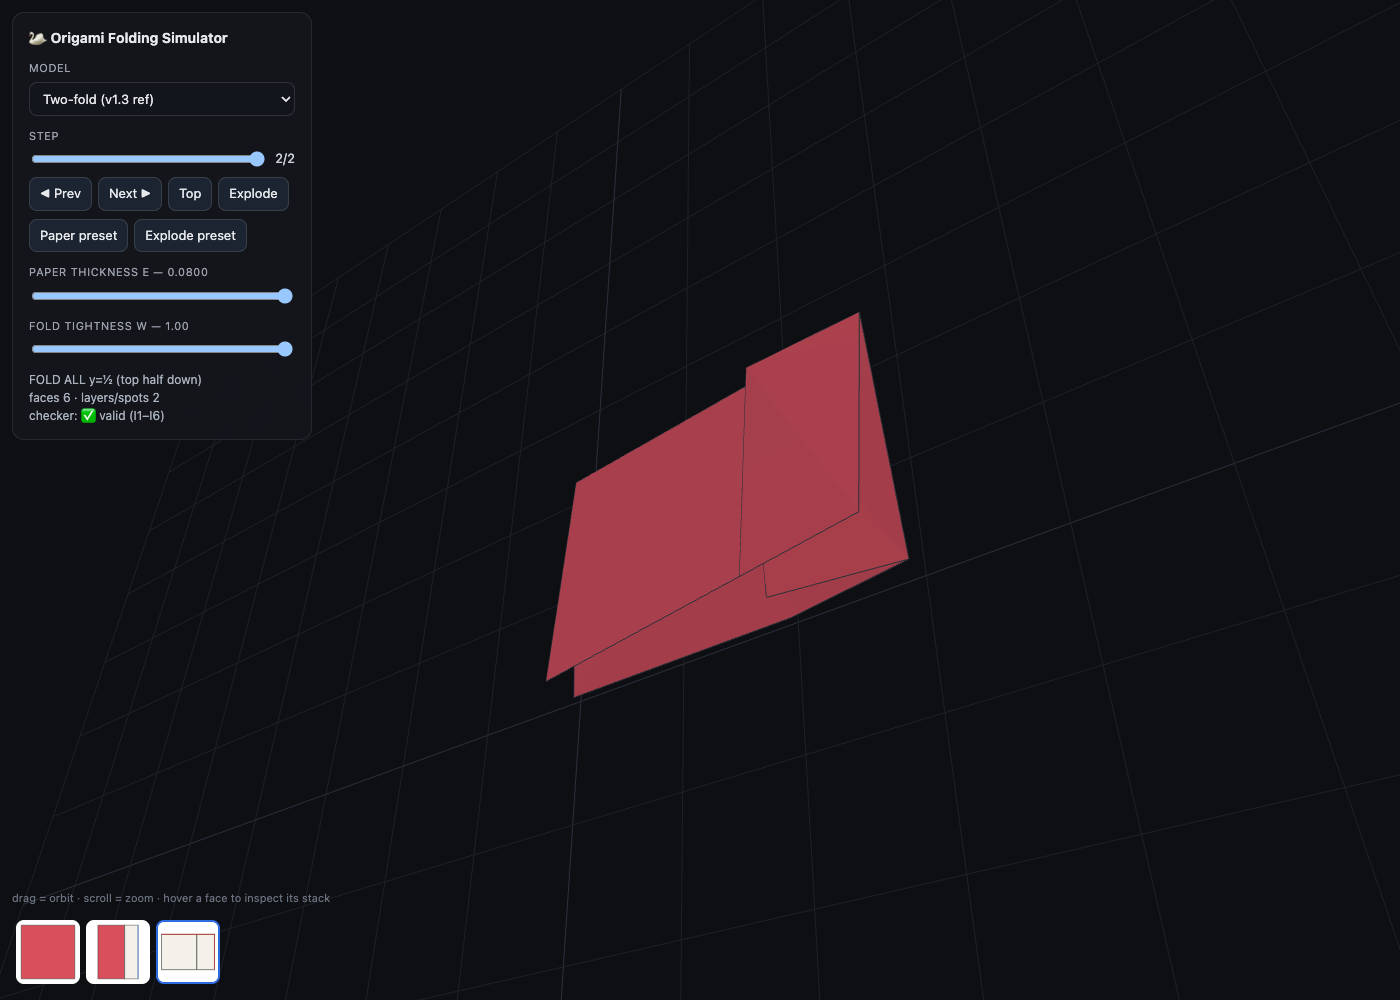
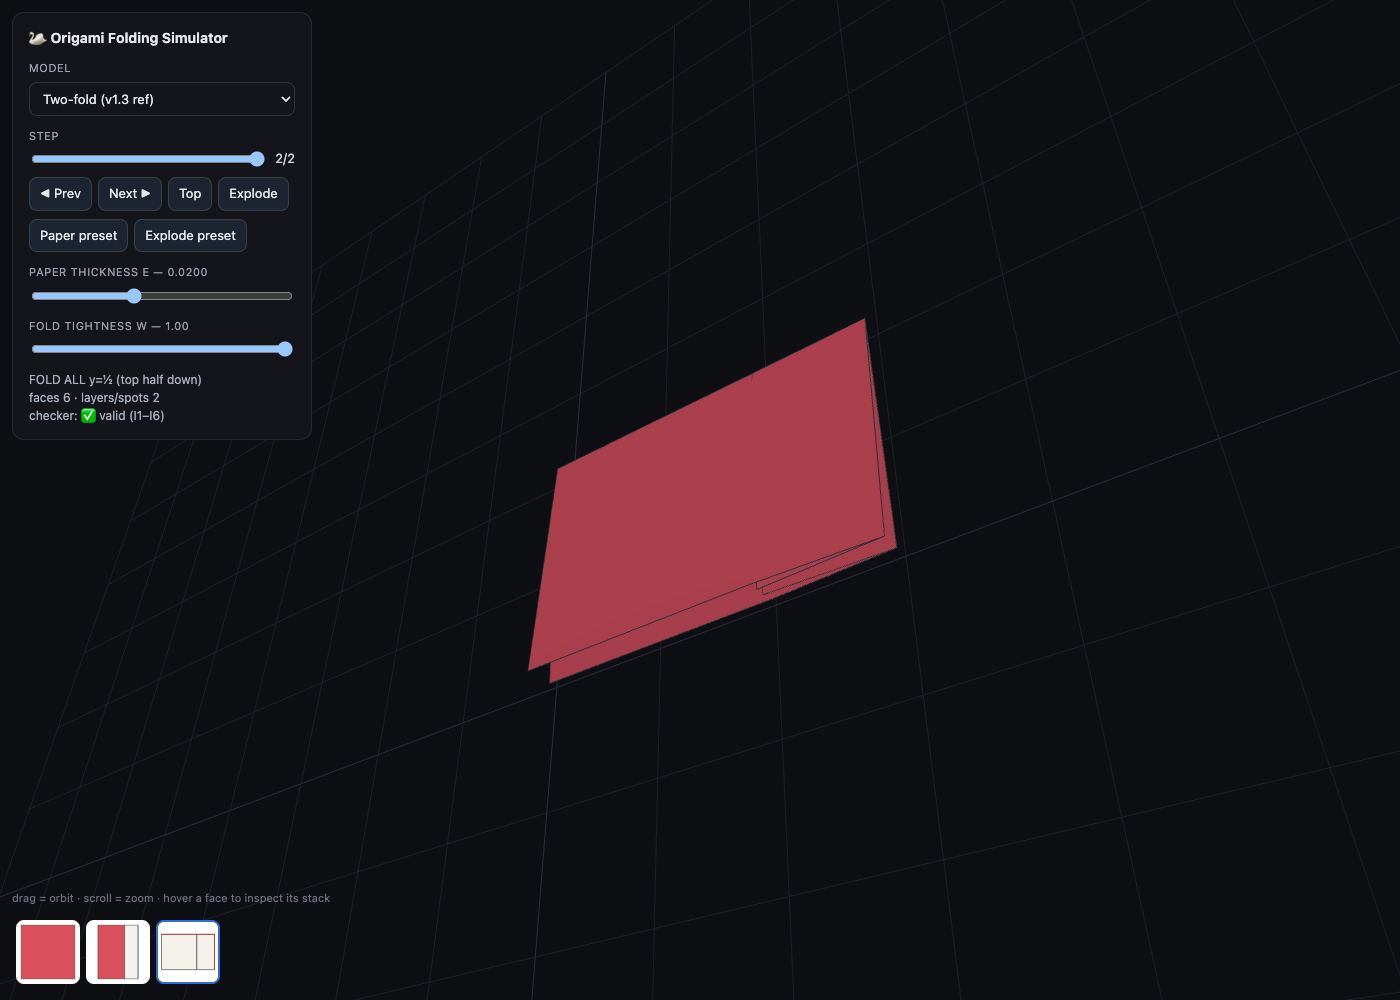
Flat-top layer heights: one physical sheet drawn flat at its top-most level
User feedback: with the per-spot ramp, a top sheet spanning regions with different layer
counts dipped, letting a small higher piece poke up ("the big paper should be on top, not
the little square"). Switch the base height to per SPLIT-connected component (physical
sheet) = its MAX stack index: each sheet is drawn flat at the highest level it reaches, so
the top sheet stays flat on top across regions; thinner regions leave an invisible gap
under it. CREASE welding by w unchanged. Also drop the isotonic order-repair (it patched
the per-spot ramp's inversions, unneeded now) and the unused BuildOptions.weld.

diff --git a/packages/viewer/src/build3d.ts b/packages/viewer/src/build3d.ts
@@ -17,7 +17,7 @@
  *   4. Edge lines: BOUNDARY + folded CREASE only. SPLIT edges are never drawn. No hinge walls.
  */
 import * as THREE from 'three';
-import type { FoldedState, Face, Vec2, FaceId, SpotId } from '@origami/core';
+import type { FoldedState, Face, Vec2, FaceId } from '@origami/core';
 import { foldedPoly, faceIsFront, applyIso } from '@origami/core';
 
 export const FRONT_COLOR = 0xd94f5c; // colored paper front
@@ -62,6 +62,7 @@ function makeUF(ids: Iterable<FaceId>) {
   };
   return {
     has: (x: FaceId) => parent.has(x),
+    find,
     union: (a: FaceId, b: FaceId) => { if (parent.has(a) && parent.has(b)) parent.set(find(a), find(b)); },
     groups: (): FaceId[][] => {
       const g = new Map<FaceId, FaceId[]>();
@@ -73,28 +74,27 @@ function makeUF(ids: Iterable<FaceId>) {
 
 interface FaceGeom { face: Face; verts: Vec2[]; z: number[] } // enriched folded polygon + per-vertex z
 
-/** Least-squares non-decreasing projection (pool adjacent violators). Minimal monotone fit. */
-function isotonic(vals: number[]): number[] {
-  const blocks: { sum: number; cnt: number; val: number }[] = [];
-  for (const v of vals) {
-    let b = { sum: v, cnt: 1, val: v };
-    while (blocks.length && blocks[blocks.length - 1]!.val > b.val) {
-      const p = blocks.pop()!;
-      b = { sum: p.sum + b.sum, cnt: p.cnt + b.cnt, val: (p.sum + b.sum) / (p.cnt + b.cnt) };
-    }
-    blocks.push(b);
-  }
-  const out: number[] = [];
-  for (const b of blocks) for (let i = 0; i < b.cnt; i++) out.push(b.val);
-  return out;
-}
-
 export function buildModel(state: FoldedState, opts: BuildOptions): Built {
   const eps = opts.epsilon, w = opts.weight;
 
-  // 1. stack index (within spot) per face — the base layer height
+  // 1. base height per face. A physical SHEET = a SPLIT-connected component of faces; it is
+  // drawn FLAT at one height = the TOP stack position it reaches anywhere. So a sheet that is
+  // topmost over a 4-layer region and continues over a 2-layer region stays flat on top over
+  // both (the big paper doesn't dip and let a small higher piece poke up); thin regions just
+  // leave an empty gap under that top sheet. (User-chosen "flat top"; the spec's per-spot
+  // ramp is the alternative.) CREASE welding (below) still joins the folds by w.
   const stackIdx = new Map<FaceId, number>();
   for (const spot of state.spots.values()) spot.stack.forEach((id, i) => stackIdx.set(id, i));
+  const sheet = makeUF([...state.faces.keys()]);
+  for (const e of state.edges.values()) {
+    if (e.kind === 'SPLIT' && e.faces[1] !== null) sheet.union(e.faces[0], e.faces[1]);
+  }
+  const sheetTop = new Map<FaceId, number>(); // component root → max stack index in it
+  for (const f of state.faces.values()) {
+    const r = sheet.find(f.id), lvl = stackIdx.get(f.id) ?? 0;
+    sheetTop.set(r, Math.max(sheetTop.get(r) ?? 0, lvl));
+  }
+  const levelOf = (id: FaceId): number => sheetTop.get(sheet.find(id)) ?? (stackIdx.get(id) ?? 0);
 
   // gather every folded vertex position (for conforming T-junction insertion)
   const folded = new Map<FaceId, readonly Vec2[]>();
@@ -123,7 +123,7 @@ export function buildModel(state: FoldedState, opts: BuildOptions): Built {
       mid.sort((p, q) => t(p) - t(q));
       out.push(...mid);
     }
-    const base = (stackIdx.get(f.id) ?? 0) * eps;
+    const base = levelOf(f.id) * eps;
     fg.set(f.id, { face: f, verts: out, z: out.map(() => base) });
   }
 
@@ -169,30 +169,6 @@ export function buildModel(state: FoldedState, opts: BuildOptions): Built {
     };
     weld(['SPLIT'], false);            // tier 1: unconditional
     weld(['SPLIT', 'CREASE'], true);   // tier 2: hinge clusters, w-blended
-  }
-
-  // 2b. Order repair (SPEC-GAP §8.1): the mean-weld can pull a facet's boundary height out
-  // of its spot's stacking order — a top facet draping toward a low far region dips below a
-  // non-draping layer beneath it ("top ends up in the middle and pokes through"). At each
-  // vertex, project each spot's faces (by stack index) onto the nearest NON-DECREASING
-  // sequence (isotonic / PAVA). Minimal: invisible at the Paper preset, and at large ε it
-  // ties the crossing layers instead of letting the top poke below. (Cup: 3 inversions → 0.)
-  const faceSpotId = new Map<FaceId, SpotId>();
-  for (const [sid, sp] of state.spots) for (const id of sp.stack) faceSpotId.set(id, sid);
-  for (const insts of instances.values()) {
-    if (insts.length < 2) continue;
-    const bySpot = new Map<SpotId, { id: FaceId; vi: number }[]>();
-    for (const i of insts) {
-      const sid = faceSpotId.get(i.id); if (sid === undefined) continue;
-      (bySpot.get(sid) ?? bySpot.set(sid, []).get(sid)!).push(i);
-    }
-    for (const [sid, group] of bySpot) {
-      if (group.length < 2) continue;
-      const stack = state.spots.get(sid)!.stack;
-      group.sort((p, q) => stack.indexOf(p.id) - stack.indexOf(q.id)); // bottom→top
-      const fixed = isotonic(group.map((i) => fg.get(i.id)!.z[i.vi]!));
-      group.forEach((i, j) => { fg.get(i.id)!.z[i.vi] = fixed[j]!; });
-    }
   }
 
   // 4. build meshes + edge lines
